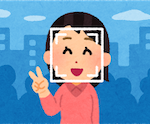
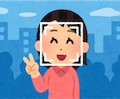
fix picture styles

diff --git a/src/components/Pictures.tsx b/src/components/Pictures.tsx
@@ -5,14 +5,19 @@ import { detect, findSimilar } from '../hooks/useApi';
 
 const useStyles = makeStyles(() =>
   createStyles({
-    title: {
-      flexGrow: 1,
+    picturesOuter: {
+      width: '100%',
+      paddingTop: '50%',
+      position: 'relative',
     },
-    body: {
-      // padding: 0,
-      marginTop: 8,
+    picturesInner: {
+      position: 'absolute',
+      top: 0,
+      left: 0,
+      width: '100%',
+      height: '100%',
     },
-    img: {
+    loaded: {
       width: '100%',
       objectFit: 'scale-down',
     },
@@ -24,6 +29,7 @@ const Pictures: VFC = () => {
   const [imageData, setImageData] = useState<string | undefined>(undefined);
   const [faces, setFaces] = useState<Face[]>([]);
   const [students, setStudents] = useState<Student[]>([]);
+  // const [selectedFaceNum, setSelectedFaceNum] = useState(-1);
 
   const onChangeInput = async (e: React.ChangeEvent<HTMLInputElement>) => {
     const { target } = e;
@@ -31,15 +37,14 @@ const Pictures: VFC = () => {
     const file = files && files.length ? files[0] : null;
     if (!file) return;
 
-    const newFaces = await detect(file);
-    setFaces(newFaces);
-
     const reader = new FileReader();
     reader.readAsDataURL(file);
     reader.onload = () => {
       const { result } = reader;
       setImageData(result as string);
     };
+    const newFaces = await detect(file);
+    setFaces(newFaces);
   };
 
   const onClick = async () => {
@@ -49,17 +54,35 @@ const Pictures: VFC = () => {
 
   return (
     <>
+      {imageData && (
+        <Grid item container>
+          <Grid className={classes.picturesOuter}>
+            <Grid
+              className={classes.picturesInner}
+              item
+              container
+              direction="row"
+            >
+              <Grid item container xs={6} justify="center" alignItems="center">
+                <img
+                  src={imageData}
+                  alt="選択した画像"
+                  className={classes.loaded}
+                />
+              </Grid>
+              <Grid item container xs={6} justify="center" alignItems="center">
+                fuga
+              </Grid>
+            </Grid>
+          </Grid>
+        </Grid>
+      )}
       <Grid item container justify="center">
         <Button variant="contained" color="primary" component="label">
           画像を選択
           <input type="file" accept="image/*" hidden onChange={onChangeInput} />
         </Button>
       </Grid>
-      {imageData && (
-        <Grid item container justify="center">
-          <img src={imageData} alt="選択した画像" className={classes.img} />
-        </Grid>
-      )}
       {faces.length > 0 && (
         <Grid item container justify="center">
           <Button variant="contained" color="primary" onClick={onClick}>

diff --git a/src/App.tsx b/src/App.tsx
@@ -18,10 +18,6 @@ const useStyles = makeStyles(() =>
     body: {
       marginTop: 8,
     },
-    img: {
-      width: '100%',
-      objectFit: 'scale-down',
-    },
   })
 );
 
@@ -45,7 +41,7 @@ const App: VFC = () => {
           <Grid item>
             <Typography>
               画像に写っている人が、さくら学院の中で
-              <b>どの生徒にどのくらい似ている</b>のか判定するよ！
+              <b>どの生徒にどのくらい似ているか</b>判定するよ！
             </Typography>
             <Typography variant="caption">
               ※画像は判定のため
